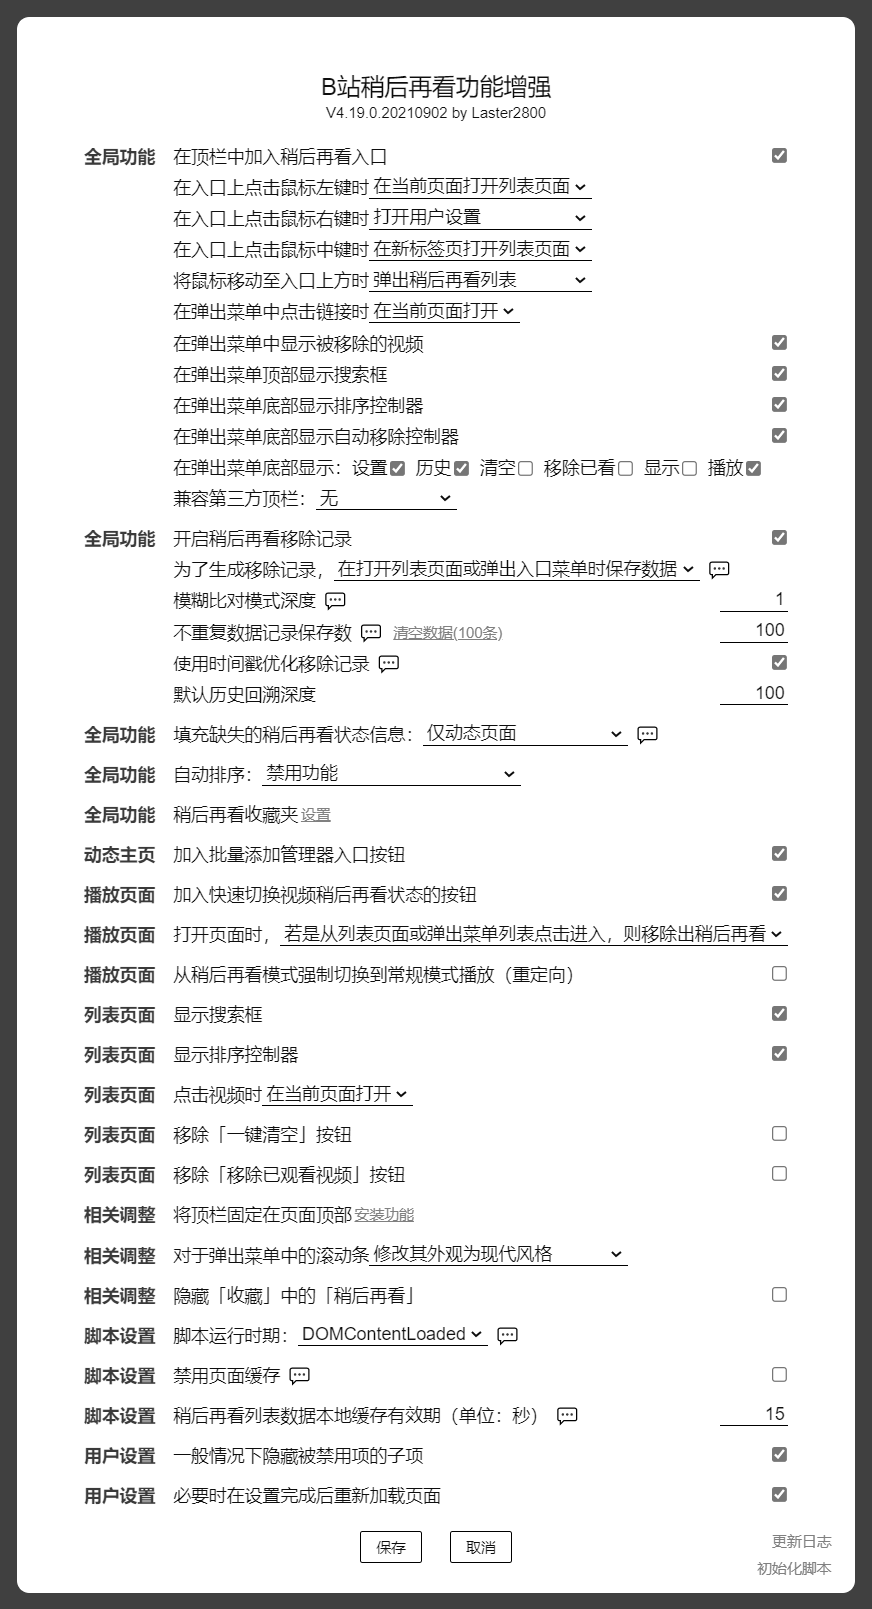
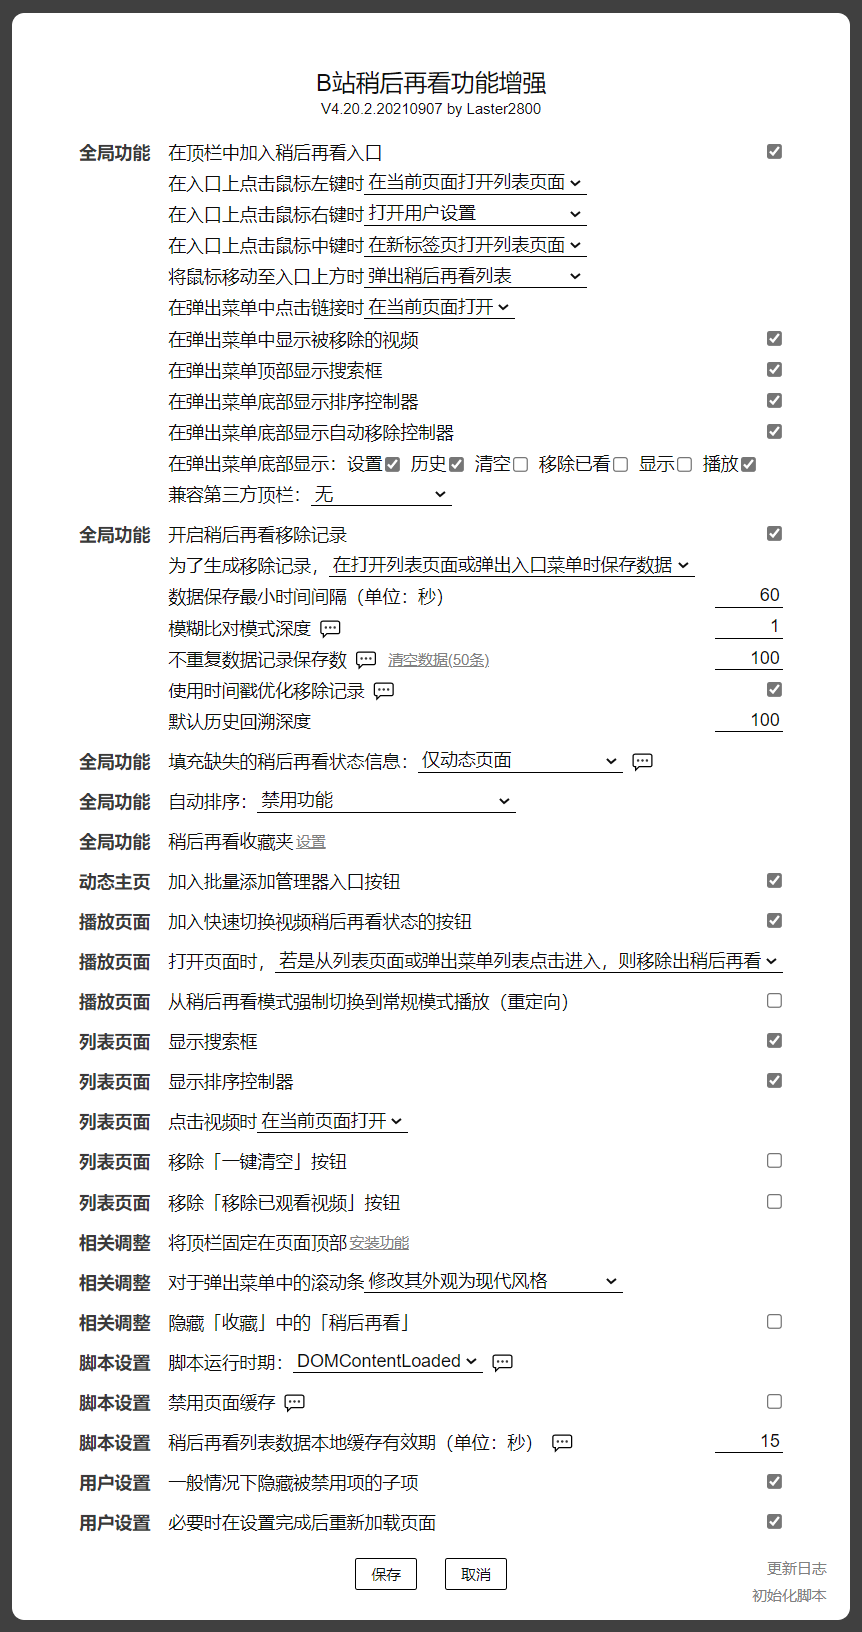
B站稍后再看功能增强 4.20.2.20210907
* 移除记录：移除在同一个 URL 对应的页面下至多保存一次稍后再看历史数据的限制，并优化稍后再看历史数据的保存逻辑。
* 移除记录：新增选项「数据保存最小时间间隔」。距离上一次保存稍后再看历史数据间隔超过该时间，才会再次进行保存。
* 批量添加：不再加载已存在于稍后再看的视频投稿。
* 批量添加：若投稿存在于稍后再看历史数据中（仅开启移除记录时），则加载后默认为非选状态。
* 用户设置：优化内部处理逻辑。

diff --git a/script/BilibiliWatchlaterPlus/BilibiliWatchlaterPlus.user.js b/script/BilibiliWatchlaterPlus/BilibiliWatchlaterPlus.user.js
@@ -1,6 +1,6 @@
 // ==UserScript==
 // @name            B站稍后再看功能增强
-// @version         4.20.1.20210907
+// @version         4.20.2.20210907
 // @namespace       laster2800
 // @author          Laster2800
 // @description     与稍后再看功能相关，一切你能想到和想不到的功能
@@ -20,7 +20,7 @@
 // @require         https://greasyfork.org/scripts/409641-userscriptapi/code/UserscriptAPI.js?version=968206
 // @require         https://greasyfork.org/scripts/431998-userscriptapidom/code/UserscriptAPIDom.js?version=968204
 // @require         https://greasyfork.org/scripts/431999-userscriptapilogger/code/UserscriptAPILogger.js?version=967887
-// @require         https://greasyfork.org/scripts/432000-userscriptapimessage/code/UserscriptAPIMessage.js?version=968205
+// @require         https://greasyfork.org/scripts/432000-userscriptapimessage/code/UserscriptAPIMessage.js?version=968345
 // @require         https://greasyfork.org/scripts/432001-userscriptapitool/code/UserscriptAPITool.js?version=967889
 // @require         https://greasyfork.org/scripts/432002-userscriptapiwait/code/UserscriptAPIWait.js?version=968207
 // @require         https://greasyfork.org/scripts/432003-userscriptapiweb/code/UserscriptAPIWeb.js?version=967891
@@ -217,6 +217,7 @@
    * @property {boolean} headerCompatible 兼容第三方顶栏
    * @property {boolean} removeHistory 稍后再看移除记录
    * @property {removeHistorySavePoint} removeHistorySavePoint 保存稍后再看历史数据的时间点
+   * @property {number} removeHistorySavePeriod 数据保存最小时间间隔
    * @property {number} removeHistoryFuzzyCompare 模糊比对深度
    * @property {number} removeHistorySaves 稍后再看历史数据记录保存数
    * @property {boolean} removeHistoryTimestamp 使用时间戳优化移除记录
@@ -266,7 +267,6 @@
    * @property {boolean} reloadWatchlaterListData 刷新稍后再看列表数据
    * @property {boolean} loadingWatchlaterListData 正在加载稍后再看列表数据
    * @property {boolean} savingRemoveHistoryData 正在存储稍后再看历史数据
-   * @property {boolean} savedRemoveHistoryData 当前 URL 已存储过稍后再看历史数据
    */
   /**
    * @callback removeHistoryData 通过懒加载方式获取稍后再看历史数据
@@ -372,7 +372,7 @@
   const gm = {
     id: gmId,
     configVersion: GM_getValue('configVersion'),
-    configUpdate: 20210902.1,
+    configUpdate: 20210907,
     searchParams: new URL(location.href).searchParams,
     config: {},
     configMap: {
@@ -395,6 +395,7 @@
       headerCompatible: { default: Enums.headerCompatible.none, attr: 'value', configVersion: 20210721 },
       removeHistory: { default: true, attr: 'checked', manual: true, configVersion: 20210628 },
       removeHistorySavePoint: { default: Enums.removeHistorySavePoint.listAndMenu, attr: 'value', configVersion: 20210628 },
+      removeHistorySavePeriod: { default: 60, type: 'int', attr: 'value', max: 600, needNotReload: true, configVersion: 20210907 },
       removeHistoryFuzzyCompare: { default: 1, type: 'int', attr: 'value', max: 5, needNotReload: true, configVersion: 20210722 },
       removeHistorySaves: { default: 100, type: 'int', attr: 'value', manual: true, needNotReload: true, min: 10, max: 500, configVersion: 20210808 },
       removeHistoryTimestamp: { default: true, attr: 'checked', needNotReload: true, configVersion: 20210703 },
@@ -976,7 +977,7 @@
                   </tr>
 
                   <tr class="gm-item" title="保留稍后再看列表中的数据，以查找出一段时间内将哪些视频移除出稍后再看，用于拯救误删操作。关闭该选项会将内部历史数据清除！">
-                    <td rowspan="6"><div>全局功能</div></td>
+                    <td rowspan="7"><div>全局功能</div></td>
                     <td>
                       <label>
                         <span>开启稍后再看移除记录</span>
@@ -985,7 +986,7 @@
                       </label>
                     </td>
                   </tr>
-                  <tr class="gm-subitem" sup="removeHistory" title="选择在何时保存稍后再看历史数据。无论选择哪一种方式，在同一个 URL 对应的页面下至多触发一次保存。">
+                  <tr class="gm-subitem" sup="removeHistory" title="选择在何时保存稍后再看历史数据。">
                       <td>
                         <div>
                           <span>为了生成移除记录，</span>
@@ -994,9 +995,16 @@
                             <option value="${Enums.removeHistorySavePoint.listAndMenu}">在打开列表页面或弹出入口菜单时保存数据</option>
                             <option value="${Enums.removeHistorySavePoint.anypage}">在打开任意相关页面时保存数据</option>
                           </select>
-                          <span id="gm-rhspInformation" class="gm-information" title>💬</span>
                         </div>
                       </td>
+                  </tr>
+                  <tr class="gm-subitem" sup="removeHistory" title="距离上一次保存稍后再看历史数据间隔超过该时间，才会再次进行保存。">
+                    <td>
+                      <div>
+                        <span>数据保存最小时间间隔（单位：秒）</span>
+                        <input id="gm-removeHistorySavePeriod" type="text">
+                      </div>
+                    </td>
                   </tr>
                   <tr class="gm-subitem" sup="removeHistory" title="设置模糊比对深度以快速舍弃重复数据从而降低开销，但可能会造成部分记录遗漏。">
                     <td>
@@ -1322,13 +1330,6 @@
           el.reset = gm.el.setting.querySelector('.gm-reset')
 
           // 提示信息
-          el.rhspInformation = gm.el.setting.querySelector('#gm-rhspInformation')
-          api.message.advancedInfo(el.rhspInformation, `
-            <div style="text-indent:2em;line-height:1.6em">
-              <p>选择更多保存时间点能提高移除历史的准确度，但可能会伴随大量无意义的数据比较。无论选择哪一种方式，在同一个 URL 对应的页面下至多保存一次。</p>
-              <p>若习惯于从稍后再看列表页面点击视频观看，建议选择第一项或第二项。若习惯于直接在顶栏弹出菜单中点击视频观看，请选择第二项。第三项性价比低，不推荐选择。</p>
-            </div>
-          `, '💬', { width: '36em', flagSize: '2em', disabled: () => el.rhspInformation.parentElement.hasAttribute('disabled') })
           el.rhfcInformation = gm.el.setting.querySelector('#gm-rhfcInformation')
           api.message.advancedInfo(el.rhfcInformation, `
             <div style="text-indent:2em;line-height:1.6em">
@@ -1434,91 +1435,35 @@
           el.removeHistory.addEventListener('change', el.removeHistory.init)
 
           // 输入框内容处理
-          el.removeHistoryFuzzyCompare.addEventListener('input', function() {
-            const v0 = this.value.replace(/[^\d]/g, '')
-            if (v0 === '') {
-              this.value = ''
-            } else {
-              let value = parseInt(v0)
-              if (value > gm.configMap.removeHistoryFuzzyCompare.max) {
-                value = gm.configMap.removeHistoryFuzzyCompare.max
+          const positiveIntInputs = ['removeHistorySavePeriod', 'removeHistoryFuzzyCompare', 'removeHistorySaves', 'removeHistorySearchTimes', 'watchlaterListCacheValidPeriod']
+          for (const name of positiveIntInputs) {
+            el[name].addEventListener('input', function() {
+              const v0 = this.value.replace(/[^\d]/g, '')
+              if (v0 === '') {
+                this.value = ''
+              } else if (typeof gm.configMap[name].max == 'number') {
+                let value = parseInt(v0)
+                if (value > gm.configMap[name].max) {
+                  value = gm.configMap[name].max
+                }
+                this.value = value
               }
-              this.value = value
-            }
-          })
-          el.removeHistoryFuzzyCompare.addEventListener('blur', function() {
-            if (this.value === '') {
-              this.value = gm.configMap.removeHistoryFuzzyCompare.default
-            }
-          })
+            })
+            el[name].addEventListener('blur', function() {
+              if (this.value === '') {
+                this.value = gm.configMap[name].default
+              } else if (typeof gm.configMap[name].min == 'number') {
+                let value = parseInt(this.value)
+                if (value < gm.configMap[name].min) {
+                  value = gm.configMap[name].min
+                }
+                this.value = value
+              }
+            })
+          }
 
-          el.removeHistorySaves.addEventListener('input', function() {
-            const v0 = this.value.replace(/[^\d]/g, '')
-            if (v0 === '') {
-              this.value = ''
-            } else {
-              let value = parseInt(v0)
-              if (value > gm.configMap.removeHistorySaves.max) {
-                value = gm.configMap.removeHistorySaves.max
-              }
-              this.value = value
-            }
-            setRhWaring()
-          })
-          el.removeHistorySaves.addEventListener('blur', function() {
-            if (this.value === '') {
-              this.value = gm.configMap.removeHistorySaves.default
-            } else {
-              let value = parseInt(this.value)
-              if (value < gm.configMap.removeHistorySaves.min) {
-                value = gm.configMap.removeHistorySaves.min
-              }
-              this.value = value
-            }
-            setRhWaring()
-          })
-
-          el.removeHistorySearchTimes.addEventListener('input', function() {
-            const v0 = this.value.replace(/[^\d]/g, '')
-            if (v0 === '') {
-              this.value = ''
-            } else {
-              let value = parseInt(v0)
-              if (value > gm.configMap.removeHistorySearchTimes.max) {
-                value = gm.configMap.removeHistorySearchTimes.max
-              }
-              this.value = value
-            }
-          })
-          el.removeHistorySearchTimes.addEventListener('blur', function() {
-            if (this.value === '') {
-              this.value = gm.configMap.removeHistorySearchTimes.default
-            } else {
-              let value = parseInt(this.value)
-              if (value < gm.configMap.removeHistorySearchTimes.min) {
-                value = gm.configMap.removeHistorySearchTimes.min
-              }
-              this.value = value
-            }
-          })
-
-          el.watchlaterListCacheValidPeriod.addEventListener('input', function() {
-            const v0 = this.value.replace(/[^\d]/g, '')
-            if (v0 === '') {
-              this.value = ''
-            } else {
-              let value = parseInt(v0)
-              if (value > gm.configMap.watchlaterListCacheValidPeriod.max) {
-                value = gm.configMap.watchlaterListCacheValidPeriod.max
-              }
-              this.value = value
-            }
-          })
-          el.watchlaterListCacheValidPeriod.addEventListener('blur', function() {
-            if (this.value === '') {
-              this.value = gm.configMap.watchlaterListCacheValidPeriod.default
-            }
-          })
+          el.removeHistorySaves.addEventListener('input', setRhWaring)
+          el.removeHistorySaves.addEventListener('blur', setRhWaring)
         }
 
         /**
@@ -1653,13 +1598,13 @@
           } else {
             el.cleanRemoveHistoryData.textContent = '清空数据(0条)'
           }
-          el.items.scrollTop = 0
         }
 
         /**
          * 设置打开后执行
          */
         const onOpened = () => {
+          el.items.scrollTop = 0
           if (type == 2) {
             const resetSave = () => {
               el.save.title = ''
@@ -1825,6 +1770,16 @@
         script.openMenuItem('batchAddManager')
       } else {
         const el = {}
+        let history = null
+        if (gm.config.removeHistory) {
+          const records = gm.data.removeHistoryData().toArray(50) // 回溯限制到 50 条
+          if (records.length > 0) {
+            history = new Set()
+            for (const record of records) {
+              history.add(webpage.method.bvTool.bv2av(record[0]))
+            }
+          }
+        }
         setTimeout(() => {
           initManager()
           processItem()
@@ -1842,13 +1797,13 @@
             <div class="gm-batchAddManager-page gm-modal">
               <div class="gm-title">批量添加管理器</div>
               <div class="gm-comment">
-                <div>请执行以下步骤以将投稿批量添加到稍后再看（可以跳过部分步骤）。执行过程中可以关闭对话框，但不能关闭页面——且将当前页面置于后台时，大部分浏览器会暂缓甚至暂停任务执行。</div>
+                <div>请执行以下步骤以将投稿批量添加到稍后再看（可以跳过部分步骤）。执行过程中可以关闭对话框，但不能关闭页面——且将当前页面置于后台时，浏览器会暂缓甚至暂停任务执行。</div>
                 <div>脚本会优先添加投稿时间较早的投稿，达到稍后再看容量上限 100 时终止执行。注意，该功能会向后台发起大量请求，滥用可能会导致一段时间内无法正常访问B站，您可以增加平均请求间隔以降低被 BAN 的概率。</div>
                 <div>第一步：加载最近 <input id="gm-batch-1a" type="text" value="24"> <select id="gm-batch-1b" style="border:none;margin: 0 -4px">
                   <option value="${3600 * 24}">天</option>
                   <option value="3600" selected>小时</option>
                   <option value="60">分钟</option>
-                </select> 以内发布的视频投稿<button id="gm-batch-1c">执行</button><button id="gm-batch-1d" disabled>终止</button></div>
+                </select> 以内发布且不存在于稍后再看的视频投稿<button id="gm-batch-1c">执行</button><button id="gm-batch-1d" disabled>终止</button></div>
                 <div>第二步：缩小时间范围到 <input id="gm-batch-2a" type="text"> <select id="gm-batch-2b" style="border:none;margin: 0 -4px">
                   <option value="${3600 * 24}">天</option>
                   <option value="3600" selected>小时</option>
@@ -1984,9 +1939,12 @@
                     el.items.insertAdjacentHTML('afterbegin', html)
                     return // -> finally
                   }
-                  const status = await webpage.method.getVideoWatchlaterStatusByAid(String(info.aid), false, true)
-                  const displayNone = status && el.uncheckedDisplay.hide
-                  html = `<label class="gm-item" aid="${info.aid}" timestamp="${item.desc.timestamp}"${displayNone ? ' style="display:none"' : ''}><input type="checkbox"${status ? '' : ' checked'}> <span>[${info.owner.name}] ${info.title}</span></label>` + html
+                  const aid = String(info.aid)
+                  if (!await webpage.method.getVideoWatchlaterStatusByAid(aid, false, true)) { // 完全跳过存在于稍后再看的视频
+                    const uncheck = history?.has(aid)
+                    const displayNone = uncheck && el.uncheckedDisplay.hide
+                    html = `<label class="gm-item" aid="${info.aid}" timestamp="${item.desc.timestamp}"${displayNone ? ' style="display:none"' : ''}><input type="checkbox"${uncheck ? '' : ' checked'}> <span>[${info.owner.name}] ${info.title}</span></label>` + html
+                  }
                 }
                 el.items.insertAdjacentHTML('afterbegin', html)
                 await new Promise(resolve => setTimeout(resolve, 250 * (Math.random() + 0.5))) // 多让点时间给其他线程，顺便给请求留点间隔
@@ -2161,6 +2119,7 @@
         api.message.info('请在设置中开启稍后再看移除记录')
         return
       }
+      GM_deleteValue('removeHistorySaveTime') // 保险起见，清理一下
 
       const el = {}
       if (gm.el.history) {
@@ -2775,7 +2734,9 @@
        */
       updateRemoveHistoryData(reload) {
         if (gm.config.removeHistory) {
-          if (!gm.runtime.savedRemoveHistoryData || reload) {
+          const removeHistorySaveTime = GM_getValue('removeHistorySaveTime') ?? 0
+          const removeHistorySavePeriod = GM_getValue('updateRemoveHistoryData') ?? gm.configMap.removeHistorySavePeriod.default
+          if (new Date().getTime() - removeHistorySaveTime > removeHistorySavePeriod * 1000) {
             if (!gm.runtime.savingRemoveHistoryData) {
               gm.runtime.savingRemoveHistoryData = true
               return gm.data.watchlaterListData(reload).then(current => {
@@ -2803,7 +2764,7 @@
                       same = false
                     }
                     if (same) {
-                      gm.runtime.savedRemoveHistoryData = true
+                      GM_setValue('removeHistorySaveTime', new Date().getTime())
                       return
                     } else {
                       if (current.length >= gm.config.removeHistoryFuzzyCompare) {
@@ -2853,7 +2814,7 @@
                   if (updated) {
                     GM_setValue('removeHistoryData', data)
                   }
-                  gm.runtime.savedRemoveHistoryData = true
+                  GM_setValue('removeHistorySaveTime', new Date().getTime())
                 }
               }).finally(() => {
                 gm.runtime.savingRemoveHistoryData = false
@@ -3906,11 +3867,6 @@
           default:
             result.target = '_self'
         }
-        if (result.href != gm.url.noop) {
-          const url = new URL(result.href)
-          url.searchParams.set(`${gm.id}_from_header`, 'true')
-          result.href = url.href
-        }
         return result
       }
     }
@@ -4570,15 +4526,11 @@
         case Enums.removeHistorySavePoint.listAndMenu:
         default:
           if (api.web.urlMatch(gm.regex.page_watchlaterList)) {
-            // 从入口打开，而设置为 listAndMenu，则数据必然刚刚刷新过
-            if (gm.searchParams.get(`${gm.id}_from_header`) != 'true') {
-              _self.method.updateRemoveHistoryData()
-            }
+            _self.method.updateRemoveHistoryData()
           }
           break
         case Enums.removeHistorySavePoint.anypage:
           if (!api.web.urlMatch(gm.regex.page_dynamicMenu)) {
-            // anypage 时弹出入口菜单不会引起数据刷新，不必检测 ${gm.id}_from_header
             _self.method.updateRemoveHistoryData()
           }
           break

diff --git a/script/BilibiliWatchlaterPlus/changelog.md b/script/BilibiliWatchlaterPlus/changelog.md
@@ -6,7 +6,12 @@
 
 1. API：更新至 V2.0，实现 API 模块化。详见 [UserscriptAPI 更新日志](https://gitee.com/liangjiancang/userscript/blob/master/lib/UserscriptAPI/changelog.md)。
 2. API-message：更新至 V1.1，引入对话框组件。
-3. 收藏：改用对话框组件实现稍后再看收藏夹配置。
+3. 移除记录：移除在同一个 URL 对应的页面下至多保存一次稍后再看历史数据的限制，并优化稍后再看历史数据的保存逻辑。
+4. 移除记录：新增选项「数据保存最小时间间隔」。距离上一次保存稍后再看历史数据间隔超过该时间，才会再次进行保存。
+5. 批量添加：不再加载已存在于稍后再看的视频投稿。
+6. 批量添加：若投稿存在于稍后再看历史数据中（仅开启移除记录时），则加载后默认为非选状态。
+7. 收藏：改用对话框组件实现稍后再看收藏夹配置。
+8. 用户设置：优化内部处理逻辑。
 
 ## V4.19
 
